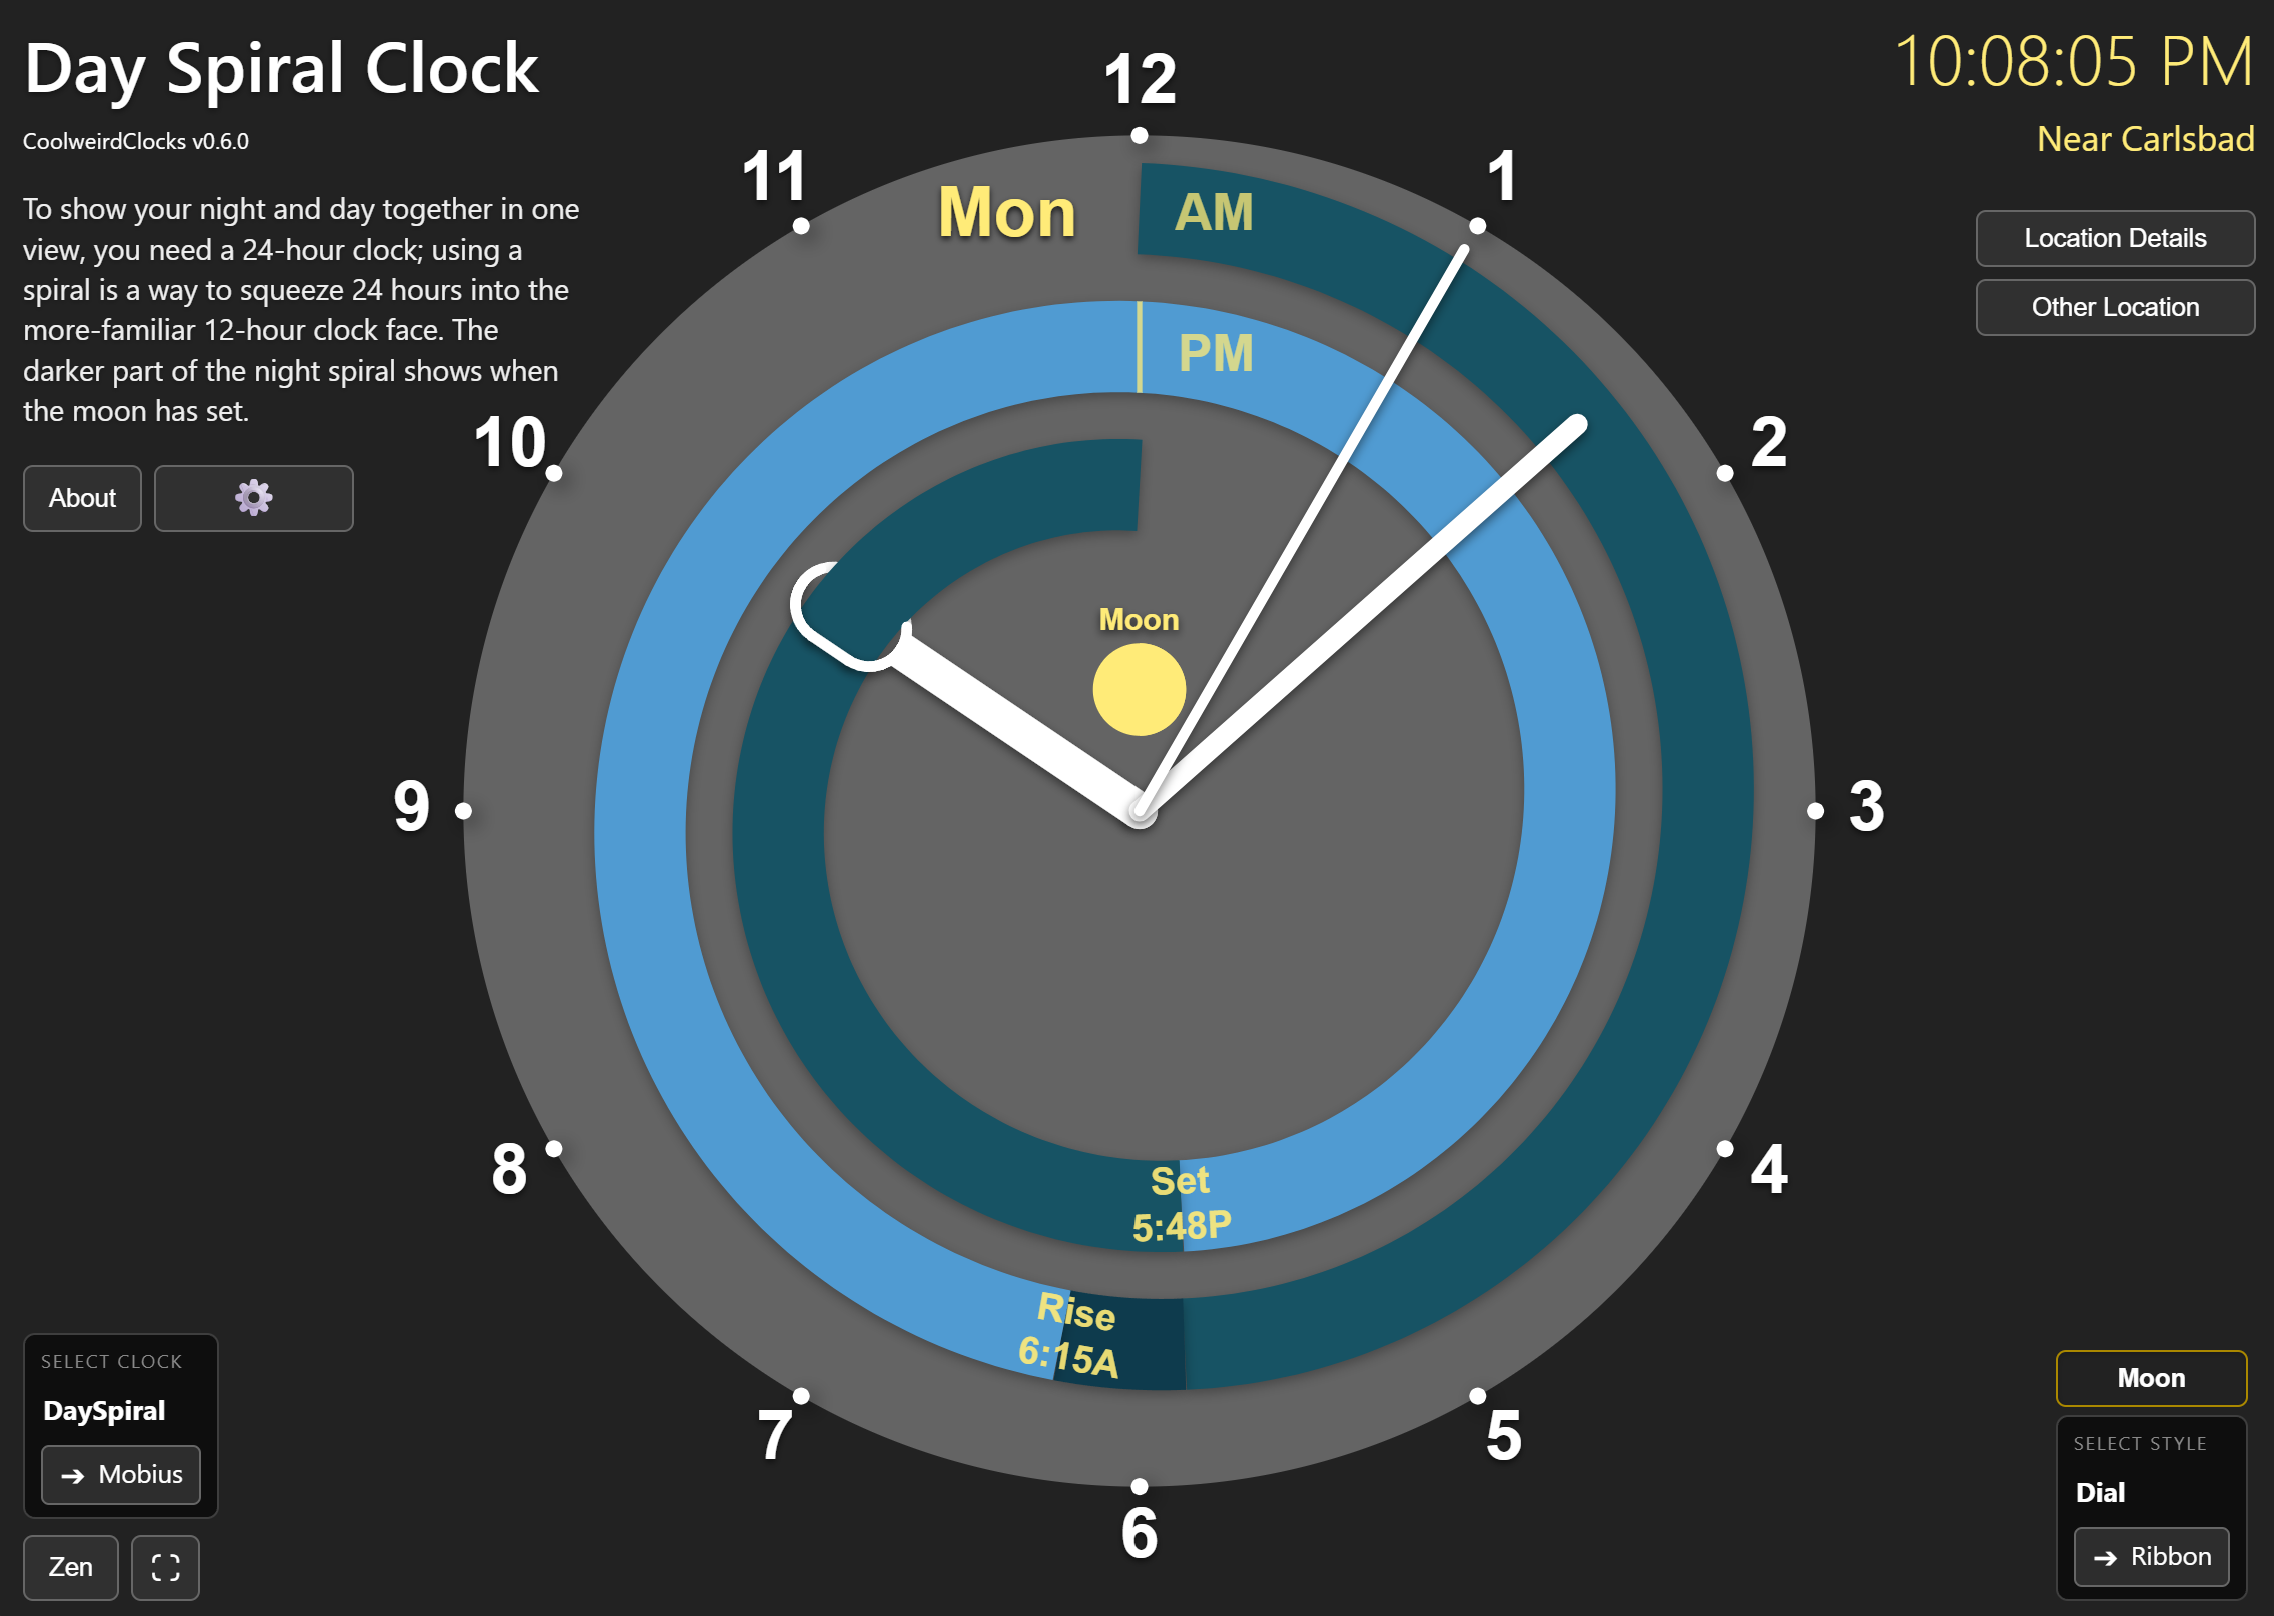
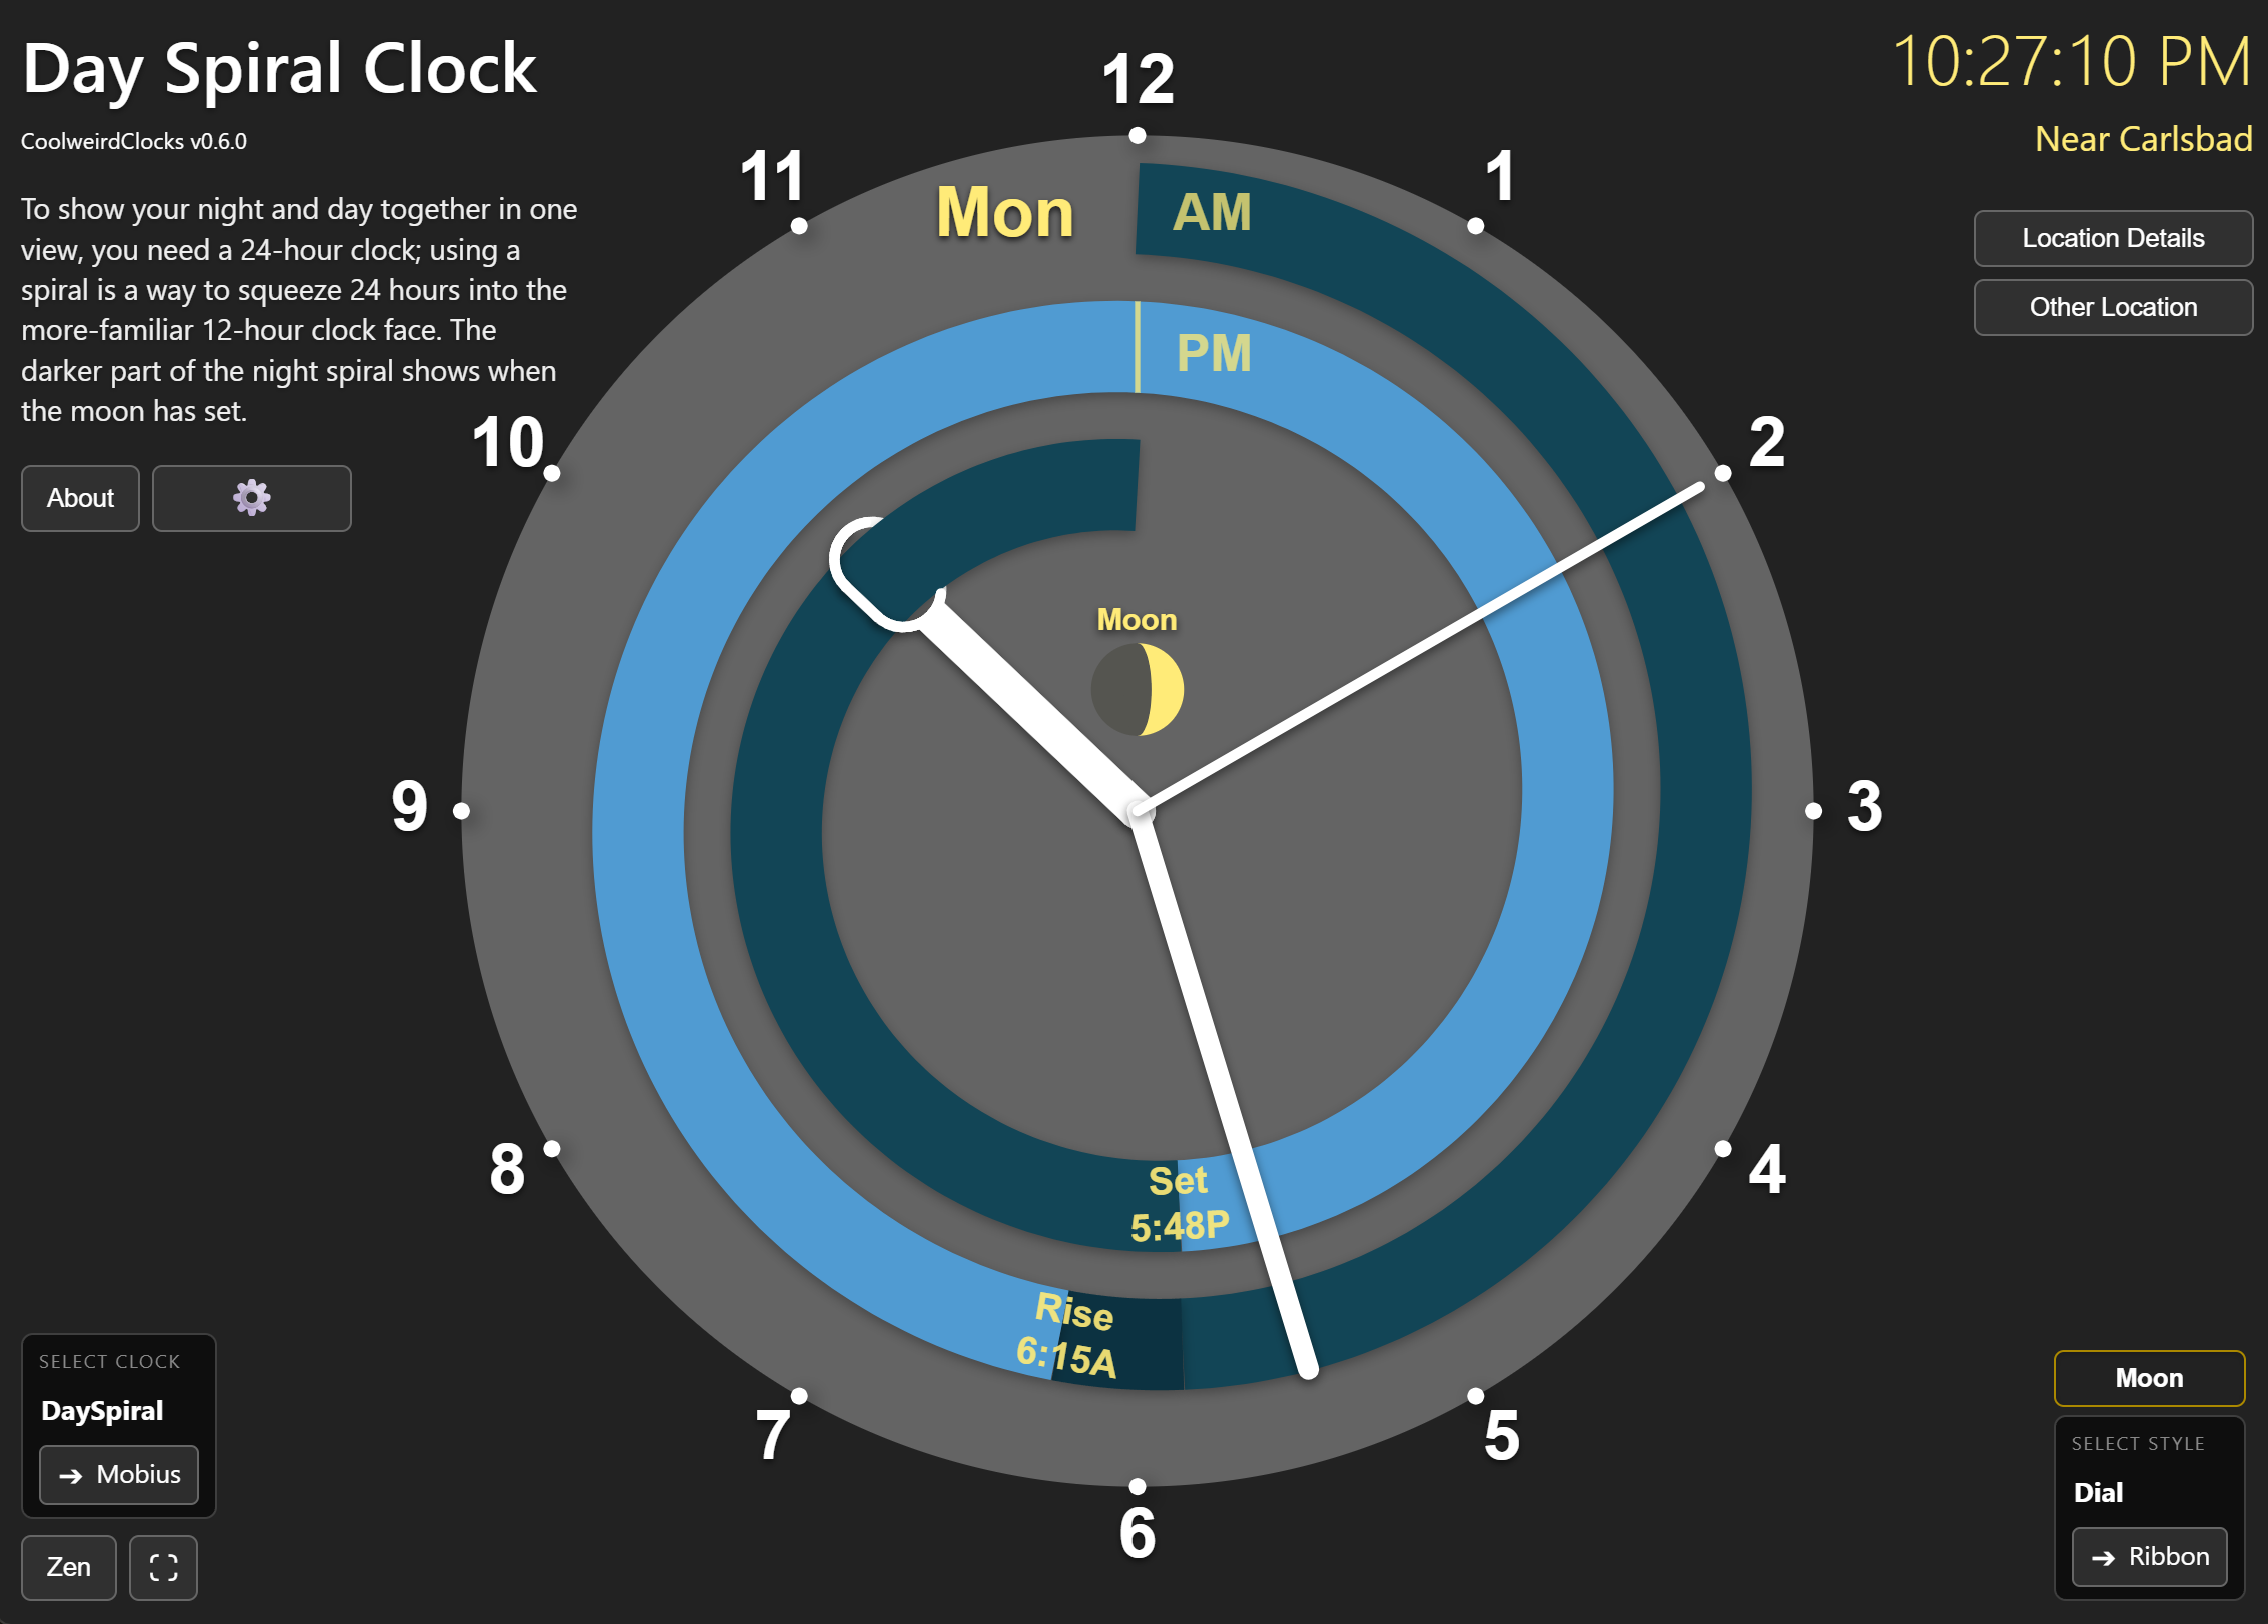
More tuning of moon-phase-driven night colors, and impl 'testMoonPhase=x' test injection

diff --git a/js/renderers/DaySpiralRenderer.js b/js/renderers/DaySpiralRenderer.js
@@ -484,12 +484,14 @@ class DaySpiralRenderer extends ClockRenderer {
     drawSpiral(tk, loc, showMode = 'dual') {
         let dayColor = color(80, 155, 210);
 
-        // 1. Make moonDownColor 10% darker than (15, 65, 85) -> (13.5, 58.5, 76.5) -> round to (14, 59, 77)
-        let moonDownColor = color(14, 59, 77); // Darker blue for moonless night
+        // 1. Make moonDownColor 10% darker than (15, 65, 85) -> (14, 59, 77)
+        // AND NOW 15% darker still -> (12, 50, 65)
+        let moonDownColor = color(12, 50, 65); // Darker blue for moonless night
 
         // 2. Define extremes for moon-up (nightColor)
         // Minimum lightness for new moon (visibly distinct from moonDownColor)
-        let minMoonUpColor = color(19, 72, 92);
+        // Reduced 15% from (19, 72, 92) -> (16, 61, 78)
+        let minMoonUpColor = color(16, 61, 78);
         // Maximum lightness for full moon (much darker than dayColor [80,155,210])
         let maxMoonUpColor = color(23, 83, 100);
 
@@ -499,6 +501,11 @@ class DaySpiralRenderer extends ClockRenderer {
             f = tk.otherMoonIllum.fraction;
         } else if (tk.moonIllum) {
             f = tk.moonIllum.fraction;
+        }
+
+        // Apply URL Hash Phase Test Override
+        if (typeof TestMoonPhase !== 'undefined' && TestMoonPhase !== null) {
+            f = constrain(TestMoonPhase / 100, 0, 1);
         }
 
         // Dynamically interpolate the night color (moon-up)
@@ -2070,6 +2077,13 @@ class DaySpiralRenderer extends ClockRenderer {
         let f = tk.moonIllum.fraction;
         let phase = tk.moonIllum.phase; // 0.0 to 1.0 (new -> full -> new)
         let lat = tk.latitude;
+
+        // Apply URL Hash Phase Test Override
+        if (typeof TestMoonPhase !== 'undefined' && TestMoonPhase !== null) {
+            f = constrain(TestMoonPhase / 100, 0, 1);
+            // Simulate phase based on f to get waxing/waning right
+            phase = f / 2;
+        }
 
         // Determine if waxing (0.0 to 0.5)
         let isWaxing = (phase < 0.5);

diff --git a/sketch.js b/sketch.js
@@ -904,6 +904,15 @@ function parseUrlHash() {
     else btnMoon.removeClass('toggled-on');
   }
 
+  // Moon phase override for testing
+  if (params.has('testMoonPhase')) {
+    let val = parseFloat(params.get('testMoonPhase'));
+    if (!isNaN(val)) {
+      window.TestMoonPhase = val;
+      console.log("  🌙 testMoonPhase override active:", val);
+    }
+  }
+
   // Zen mode
   if (zen === '1') {
     IsZenMode = true;
